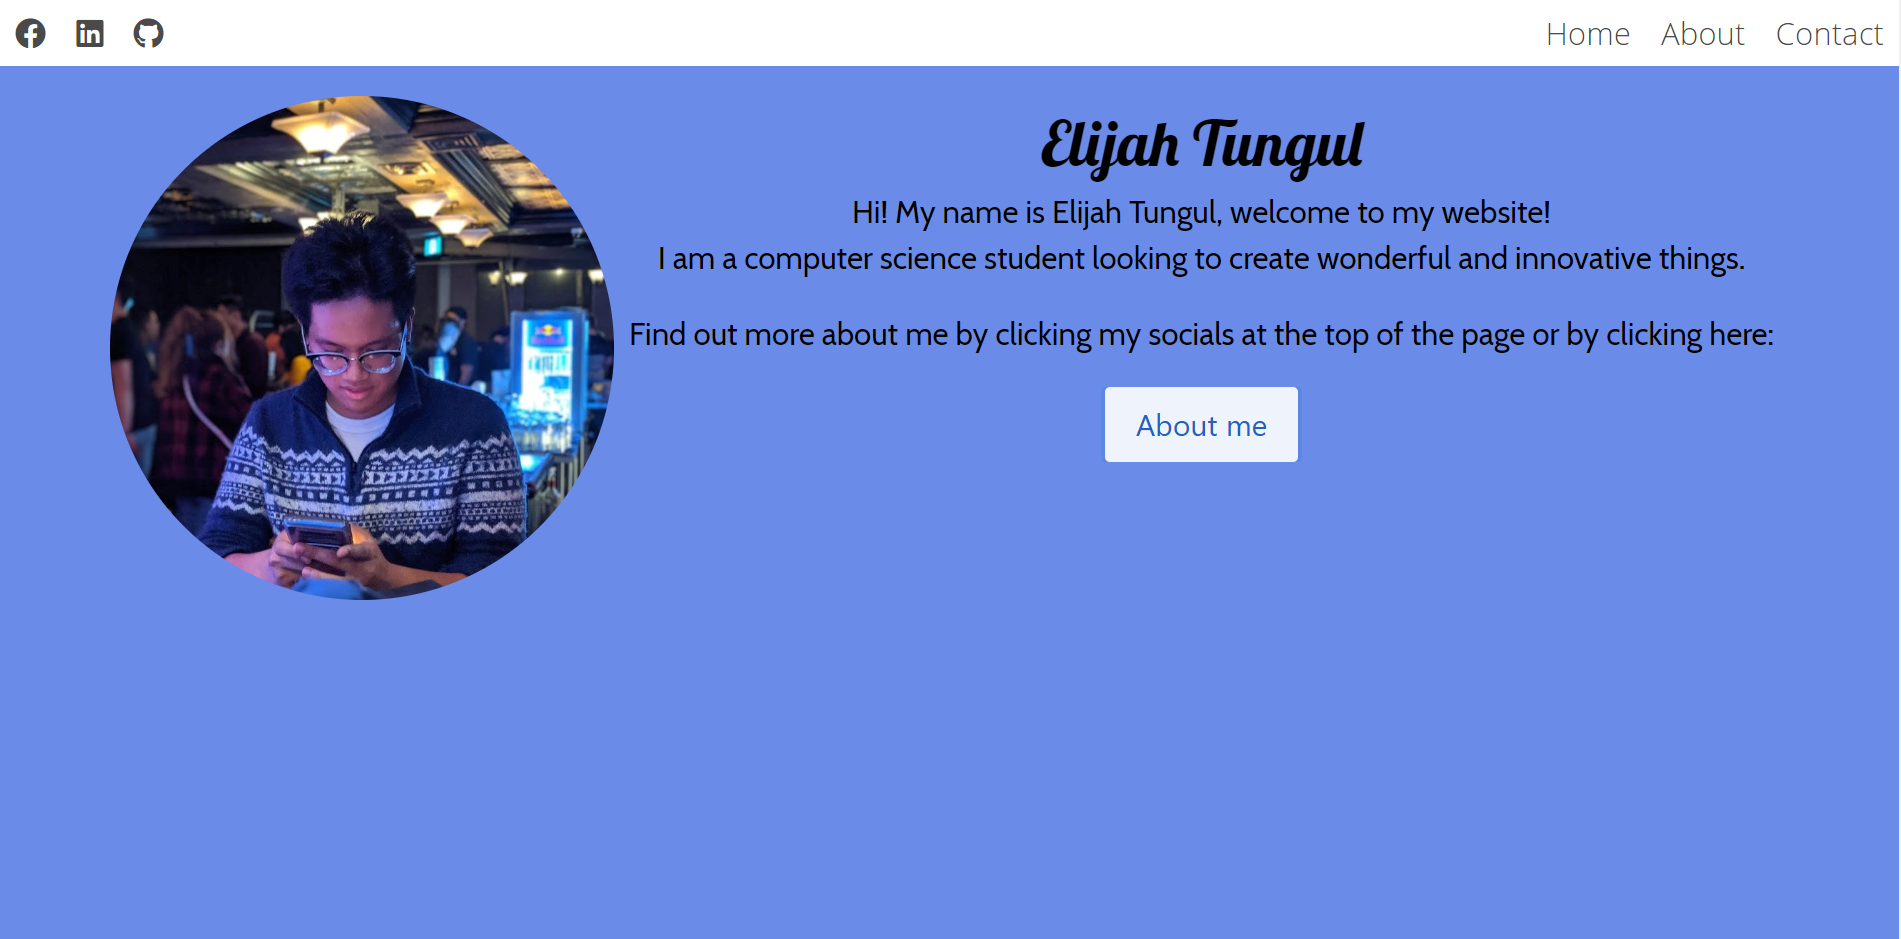
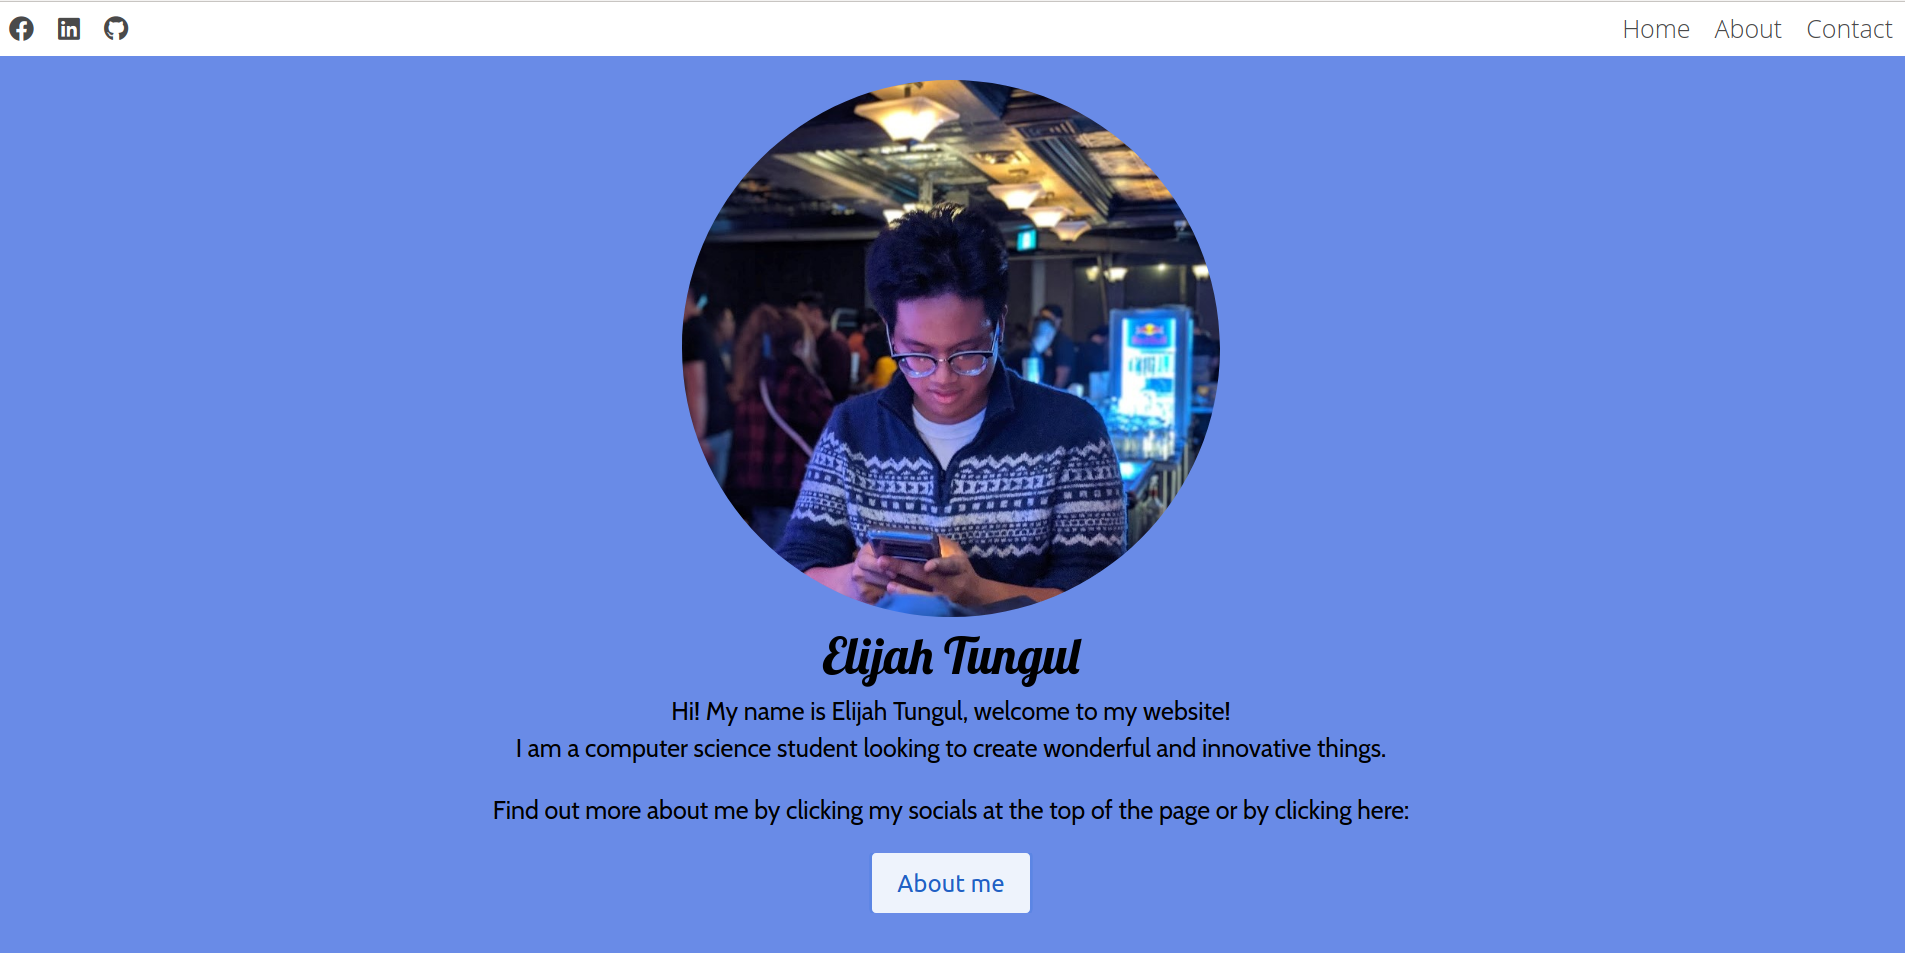
Updated README.md and added screenshots

Changed region(s): [[0.0, 0.0, 1.0, 1.0], [0.2483, 0.8339, 0.7449, 0.8647], [0.4345, 0.8956, 0.5587, 0.9574]]

diff --git a/README.md b/README.md
@@ -7,6 +7,9 @@ Screenshot of the (current state of the) website:
 
 ![Screenshot of the website](./current.png)
 
+Mobile (iPhone X/XS):
+
+![Mobile screenshot of the website](./currentMobile.png)
 
 To run the website, run the following commands in the project directory:  
 
